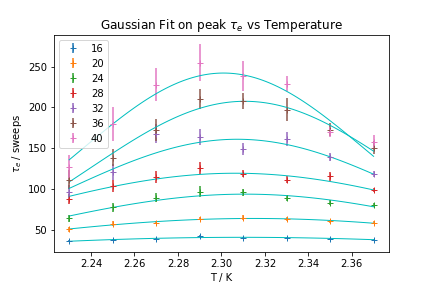
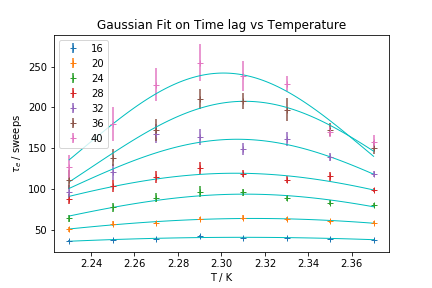
final tidying up of plots

Changed region(s): [[0.2106, 0.0625, 0.8125, 0.125]]

diff --git a/data/autocorr_plots.py b/data/autocorr_plots.py
@@ -85,17 +85,17 @@ def plot_2():
             # print(L_list[-1],value_list[-1],error_list[-1])
 
     ax1.legend()
-    ax1.set_title(r"Gaussian Fit on peak $\tau_e$ vs Temperature")
+    ax1.set_title(r"Gaussian Fit on Time lag vs Temperature")
     ax1.set_ylabel(r"$\tau_e$ / sweeps")
     ax1.set_xlabel("T / K")
 
-    ax2.set_title(r"Power fit on peak $\tau_e$ vs Lattice size")
-    ax2.set_ylabel(r"$\tau_e$ / sweeps")
+    ax2.set_title(r"Power fit on peak Time lag vs Lattice size")
+    ax2.set_ylabel(r"Peak $\tau_e$ / sweeps")
     ax2.set_xlabel("L")
     ax2.errorbar(L_list,value_list,error_list,marker='+',linestyle=" ")
     popt2, pcov2 = curve_fit(power_fit, L_list, value_list, sigma=error_list, absolute_sigma=True, maxfev=2000, p0=[1,1,0])
     x2 = np.linspace(L_list[0],L_list[-1],100)
-    ax2.plot(x2,power_fit(x2,*popt2),label = "pow = "+popt2[0]+r"$\pm$"+abs(np.sqrt(abs((np.diag(pcov2)))[0])))
+    ax2.plot(x2,power_fit(x2,*popt2), label = "pow = " + '{:.2f}'.format(popt2[0]) + r"$ \pm $" + '{:.2f}'.format(abs(np.sqrt(abs((np.diag(pcov2)))[0]))))
     print("power = ",popt2[0],abs(np.sqrt(abs((np.diag(pcov2)))[0])))
     ax2.legend()
     fig1.savefig(folder+"\\tau_e_peak_vs_temp.png")
